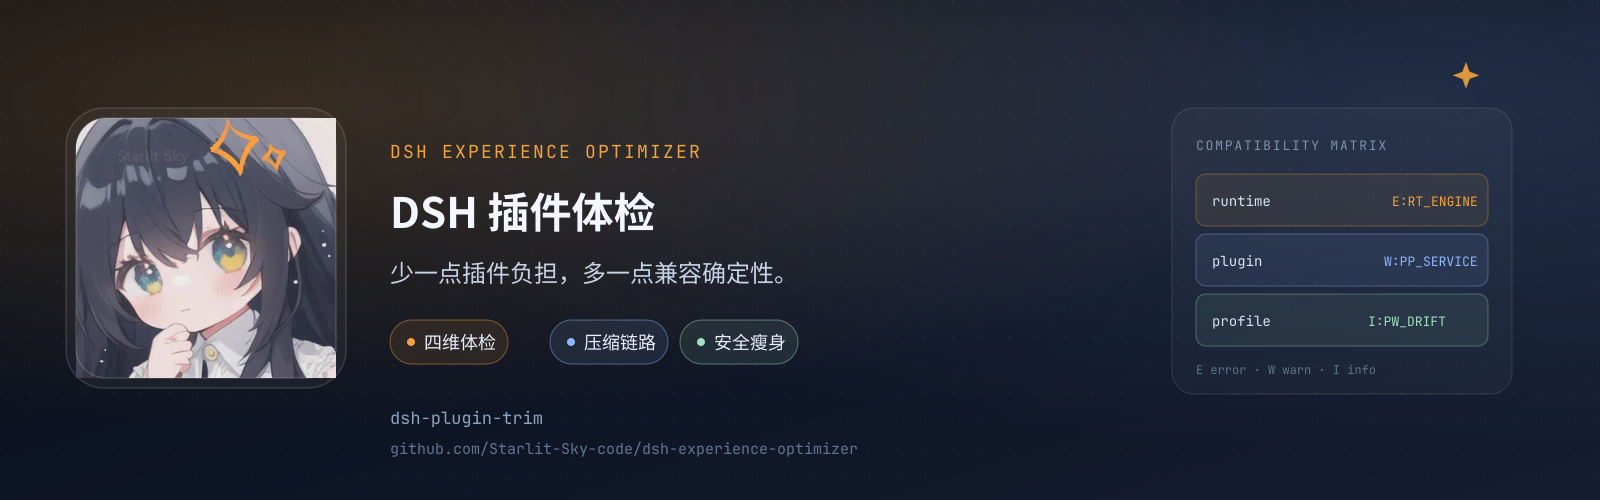
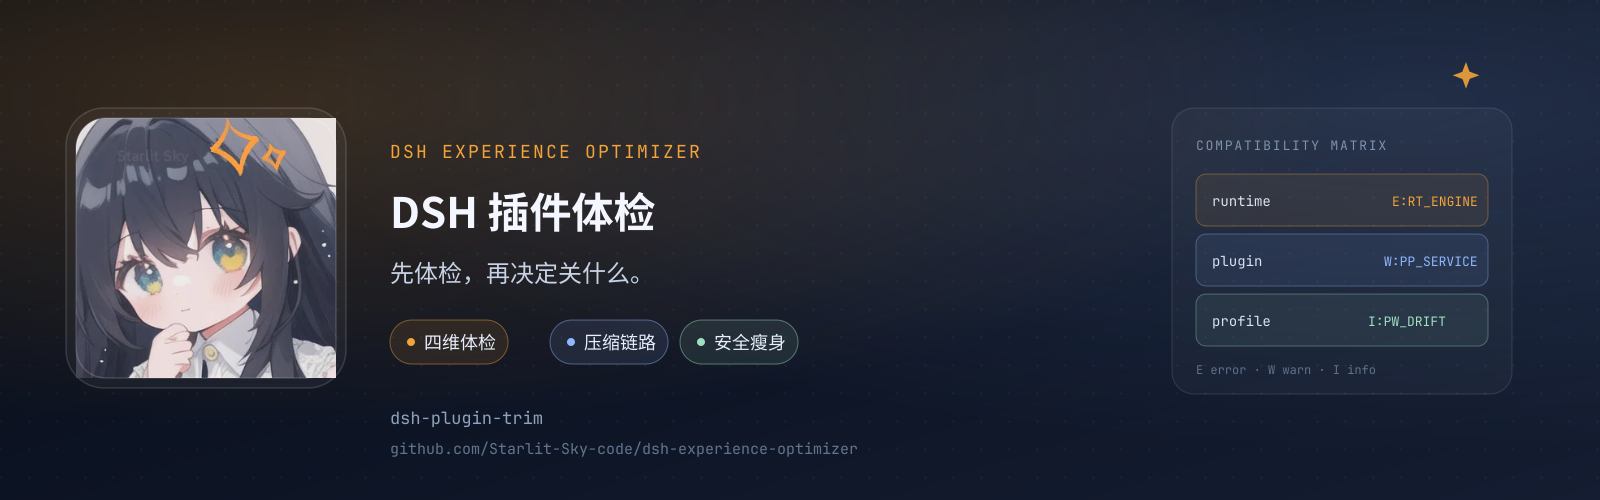
feat: one-click draft and English report localization

Changed region(s): [[0.25, 0.51, 0.5, 0.57]]

diff --git a/packages/plugin-trim/client.js b/packages/plugin-trim/client.js
@@ -1245,7 +1245,7 @@ window.__ModuleLoader__.load({
         h('path', { d: 'M1002 151 L1008 157 L1019 144', fill: 'none', stroke: '#fbbf24', strokeWidth: 2, strokeLinecap: 'round', strokeLinejoin: 'round' }),
         h('text', { x: '64', y: '72', fill: '#5eead4', fontFamily: 'ui-monospace, monospace', fontSize: '13', letterSpacing: '2.4' }, 'DSH PLUGIN SUITE · AGPL-3.0'),
         h('text', { x: '62', y: '142', fill: '#f2f7ff', fontFamily: 'Noto Sans SC, sans-serif', fontSize: '44', fontWeight: '700' }, tr('DSH 插件体检', 'DSH Plugin Checkup')),
-        h('text', { x: '64', y: '184', fill: '#c3d3e8', fontFamily: 'Noto Sans SC, sans-serif', fontSize: '20' }, tr('少一点插件负担，多一点兼容确定性。', 'Less plugin overhead, more compatibility certainty.')),
+        h('text', { x: '64', y: '184', fill: '#c3d3e8', fontFamily: 'Noto Sans SC, sans-serif', fontSize: '20' }, tr('先体检，再决定关什么。', 'Measure first. Then decide what to close.')),
         h('g', { transform: 'translate(64 220)' },
           [tr('插件体检', 'Plugin checkup'), tr('兼容性', 'Compatibility'), tr('安全瘦身', 'Safe trimming')].map((label, i) =>
             h('g', { key: label, transform: `translate(${i * 150} 0)` },
@@ -1425,64 +1425,97 @@ window.__ModuleLoader__.load({
       const copyCheckupReport = useCallback(async () => {
         if (!overview) return
         const verdict = overview.verdict
+        const checkNames = {
+          load: tr('加载', 'Load'),
+          compat: tr('兼容', 'Compat'),
+          context: tr('上下文', 'Context'),
+          compaction: tr('压缩链路', 'Compaction'),
+        }
+        const roleNames = {
+          backend: tr('后端', 'backend'),
+          pruner: tr('裁剪', 'pruner'),
+          image: tr('图像', 'image'),
+          command: tr('命令', 'command'),
+          threshold: tr('阈值', 'threshold'),
+          archive: tr('归档', 'archive'),
+          participant: tr('参与', 'participant'),
+        }
+        const headline = verdict
+          ? verdict.overall === 'ok'
+            ? tr('通过', 'Pass')
+            : verdict.overall === 'risk'
+              ? tr('有阻断项', 'Blocking issues')
+              : tr('需处理', 'Attention')
+          : '—'
         const lines = [
-          '# DSH 插件体检',
+          tr('# DSH 插件体检', '# DSH Plugin Checkup'),
           '',
-          '- 版本: ' + (overview.version || '0.5.2'),
+          tr('- 版本: ', '- Version: ') + (overview.version || '0.5.5'),
           '- Profile: ' + (overview.profile && overview.profile.name ? overview.profile.name : 'unknown'),
-          '- 结论: ' + (verdict ? verdict.headline : '—'),
+          tr('- 结论: ', '- Verdict: ') + headline,
           '',
-          '## 检查',
+          tr('## 检查', '## Checks'),
         ]
         if (verdict && Array.isArray(verdict.checks)) {
           for (const check of verdict.checks) {
-            lines.push('- ' + check.label + ': ' + check.status + ' · ' + check.detail)
+            const detail = CURRENT_LOCALE === 'en'
+              ? check.id === 'load'
+                ? (check.count > 0 ? check.count + ' load/runtime issues' : 'plugin rows loaded')
+                : check.id === 'compat'
+                  ? (check.count > 0 ? check.count + ' findings' : 'no conflicts')
+                  : check.id === 'context'
+                    ? (check.status === 'warn' ? check.count + ' duplicate prompt groups' : formatNumber(overview.context.totalTokens) + ' tokens')
+                    : check.id === 'compaction'
+                      ? (overview.compaction ? (overview.compaction.backendCount || 0) + ' backends · ' + overview.compaction.health : 'not detected')
+                      : check.detail
+              : check.detail
+            lines.push('- ' + (checkNames[check.id] || check.label) + ': ' + check.status + ' · ' + detail)
           }
         }
-        lines.push('', '## 上下文')
-        lines.push('- 总 token: ' + formatNumber(overview.context.totalTokens))
-        lines.push('- 未归属: ' + formatNumber(overview.context.unattributedTokens))
+        lines.push('', tr('## 上下文', '## Context'))
+        lines.push(tr('- 总 token: ', '- Total tokens: ') + formatNumber(overview.context.totalTokens))
+        lines.push(tr('- 未归属: ', '- Unattributed: ') + formatNumber(overview.context.unattributedTokens))
         if (Array.isArray(overview.context.byOwner)) {
           for (const owner of overview.context.byOwner.slice(0, 5)) {
             lines.push('- ' + owner.owner + ': ' + formatNumber(owner.tokens))
           }
         }
         if (overview.compaction) {
-          lines.push('', '## 压缩链路')
-          lines.push('- 状态: ' + overview.compaction.health + ' · 后端 ' + (overview.compaction.backendCount || 0))
+          lines.push('', tr('## 压缩链路', '## Compaction stack'))
+          lines.push(tr('- 状态: ', '- Status: ') + overview.compaction.health + ' · ' + tr('后端 ', 'backends ') + (overview.compaction.backendCount || 0))
           for (const participant of (overview.compaction.participants || []).slice(0, 8)) {
-            lines.push('- ' + participant.moduleName + ': ' + participant.role + (participant.enabled ? ' (on)' : ' (off)'))
+            lines.push('- ' + participant.moduleName + ': ' + (roleNames[participant.role] || participant.role) + (participant.enabled ? ' (on)' : ' (off)'))
           }
         }
         if (overview.capability) {
-          lines.push('', '## 能力面（静态，不是安全审计）')
+          lines.push('', tr('## 能力面（静态，不是安全审计）', '## Capability surface (static, not a security audit)'))
           for (const group of overview.capability.groups || []) {
             lines.push('- ' + group.label + ': ' + (group.count || 0))
           }
         }
         if (overview.findings && overview.findings.length > 0) {
-          lines.push('', '## 兼容性发现')
+          lines.push('', tr('## 兼容性发现', '## Compatibility findings'))
           for (const finding of overview.findings.slice(0, 12)) {
             lines.push('- [' + finding.severity + '] ' + finding.code + ': ' + finding.title)
           }
         }
         if (overview.history && overview.history.diff) {
           const diff = overview.history.diff
-          lines.push('', '## 自上次体检')
-          lines.push('- 新增插件: ' + (diff.addedBundles.length || 0))
-          lines.push('- 移除插件: ' + (diff.removedBundles.length || 0))
-          lines.push('- 可归属 token 差值: ' + diff.attributedDelta)
+          lines.push('', tr('## 自上次体检', '## Since last checkup'))
+          lines.push(tr('- 新增插件: ', '- Added plugins: ') + (diff.addedBundles.length || 0))
+          lines.push(tr('- 移除插件: ', '- Removed plugins: ') + (diff.removedBundles.length || 0))
+          lines.push(tr('- 可归属 token 差值: ', '- Attributable token delta: ') + diff.attributedDelta)
         }
         if (overview.verification && overview.verification.last) {
           const last = overview.verification.last
-          lines.push('', '## 上次实测')
-          lines.push('- token 差值: ' + last.deltaTokens)
+          lines.push('', tr('## 上次实测', '## Last measured'))
+          lines.push(tr('- token 差值: ', '- Token delta: ') + last.deltaTokens)
           if (last.deltaPercent !== null && last.deltaPercent !== undefined) {
-            lines.push('- 百分比: ' + Number(last.deltaPercent).toFixed(1) + '%')
+            lines.push(tr('- 百分比: ', '- Percent: ') + Number(last.deltaPercent).toFixed(1) + '%')
           }
-          if (last.confounded) lines.push('- 注意: 期间有其他插件变化，差值仅供参考')
+          if (last.confounded) lines.push(tr('- 注意: 期间有其他插件变化，差值仅供参考', '- Note: other plugins changed in the same window; treat the delta as indicative'))
         }
-        lines.push('', '> 只读体检；未修改任何插件。')
+        lines.push('', tr('> 只读体检；未修改任何插件。', '> Read-only checkup; no plugin was changed.'))
         try {
           await navigator.clipboard.writeText(lines.join('\n'))
           notify(tr('体检报告已复制', 'Checkup report copied'))
@@ -2354,7 +2387,7 @@ window.__ModuleLoader__.load({
                 'div',
                 { className: 'eo-about-card' },
                 h('div', { className: 'eo-inline', style: { marginBottom: '8px' } }, h(Icon, { name: 'shield', size: 24 }), h('strong', null, 'DSH Plugin Checkup')),
-                h('p', null, tr('少一点插件负担，多一点兼容确定性。', 'Less plugin overhead, more compatibility certainty.')),
+                h('p', null, tr('先体检，再决定关什么。', 'Measure first. Then decide what to close.')),
                 h('p', null, tr('版本：', 'Version: ') + '0.5.5 · AGPL-3.0-only'),
                 h('p', null, tr('作者：Starlit Sky', 'Author: Starlit Sky')),
               ),
@@ -2441,13 +2474,21 @@ window.__ModuleLoader__.load({
         }
         const checkDetail = (check) => {
           if (check.id === 'load') {
-            return check.count > 0 ? tr(check.count + ' 个加载/运行时问题', check.count + ' load/runtime issues') : check.detail
+            return check.count > 0 ? tr(check.count + ' 个加载/运行时问题', check.count + ' load/runtime issues') : tr('插件行已加载', 'Plugin rows loaded')
           }
           if (check.id === 'compat') {
-            return check.count > 0 ? tr(check.count + ' 项发现', check.count + ' findings') : check.detail
+            return check.count > 0 ? tr(check.count + ' 项发现', check.count + ' findings') : tr('未发现冲突', 'No conflicts')
           }
-          if (check.id === 'context' && check.status === 'warn') {
-            return tr(check.detail, check.count + ' duplicate prompt groups')
+          if (check.id === 'context') {
+            return check.status === 'warn'
+              ? tr(check.count + ' 组重复提示词', check.count + ' duplicate prompt groups')
+              : (overview.context.totalTokens > 0 ? formatNumber(overview.context.totalTokens) + ' tokens' : tr('暂无可归属上下文', 'No attributable context'))
+          }
+          if (check.id === 'compaction') {
+            const stack = overview.compaction
+            return stack && stack.health !== 'absent'
+              ? (stack.backendCount || 0) + tr(' 个后端', ' backends')
+              : tr('未检测到压缩链路', 'No compaction stack detected')
           }
           return check.detail
         }
@@ -2497,7 +2538,15 @@ window.__ModuleLoader__.load({
                 {
                   key: action.id + ':' + action.target,
                   variant: 'ghost',
-                  onClick: () => scrollToSection(action.target),
+                  disabled: action.target === 'draft' && draftBusy,
+                  onClick: () => {
+                    if (action.target === 'draft') {
+                      void generateDraft()
+                      scrollToSection('draft')
+                    } else {
+                      scrollToSection(action.target)
+                    }
+                  },
                 },
                 actionLabel(action),
               ),

diff --git a/packages/plugin-trim/test/client.test.ts b/packages/plugin-trim/test/client.test.ts
@@ -292,6 +292,14 @@ describe('client onboarding and pages', () => {
     expect(container.textContent).toContain('Plugin checkup')
     expect(container.textContent).toContain('Guide')
 
+    const trimEn = [...container.querySelectorAll('button')].find((button) => button.textContent?.trim() === 'Plugin checkup')
+    expect(trimEn).toBeDefined()
+    await act(async () => { trimEn?.click(); await sleep(40) })
+    const copyReportEn = [...container.querySelectorAll('button')].find((button) => button.textContent?.trim() === 'Copy report')
+    expect(copyReportEn).toBeDefined()
+    await act(async () => { copyReportEn?.click(); await sleep(30) })
+    expect(clipboardWrite.mock.calls.some(([text]) => String(text).startsWith('# DSH Plugin Checkup') && String(text).includes('## Checks'))).toBe(true)
+
     await act(async () => { root.unmount() })
     const Bubble = slotComponents['conversation.composer.dock']
     const Reasoning = slotComponents['conversation.chat.reasoning.body']
@@ -374,6 +382,23 @@ describe('client onboarding and pages', () => {
     await act(async () => { toggle?.click(); await sleep(20) })
     const reopen = [...container.querySelectorAll('button')].find((button) => button.textContent?.trim() === '查看 8 步路径')
     expect(reopen).toBeDefined()
+  })
+
+  it('generates a draft directly from the verdict action', async () => {
+    const calls: string[] = []
+    vi.stubGlobal('fetch', vi.fn(async (url: string) => {
+      calls.push(String(url))
+      return {
+        ok: true,
+        status: 200,
+        statusText: 'OK',
+        json: async () => ({ ok: true, data: { profile: { id: 'draft-1', items: [] } } }),
+      }
+    }))
+    const generate = [...container.querySelectorAll('button')].find((button) => button.textContent?.trim() === '生成瘦身方案')
+    expect(generate).toBeDefined()
+    await act(async () => { generate?.click(); await sleep(80) })
+    expect(calls.some((url) => url.endsWith('/suggest'))).toBe(true)
   })
 
   it('warns in the composer when the checkup verdict needs attention', async () => {

diff --git a/docs/ui.md b/docs/ui.md
@@ -80,7 +80,7 @@ section id 为 `experience-optimizer`，图标是 16px 的三段滑杆 SVG。
 ### 体检结论
 
 - 顶部四维结论条：加载 / 兼容 / 上下文 / 压缩链路；状态灯 + 计数 + 待办按钮。
-- 不做 0–100 健康分；按钮滚动到对应卡片，不自动执行。
+- 不做 0–100 健康分；兼容/压缩按钮滚动到对应卡片；“生成瘦身方案”直接生成草稿。
 - 对话上方只在结论需要处理时提醒（例如压缩链路双后端）；无事时回退到一次性轻提醒。
 
 ### 压缩链路
@@ -93,7 +93,7 @@ section id 为 `experience-optimizer`，图标是 16px 的三段滑杆 SVG。
 ### 类别与报告
 
 - 上下文卡按核心 / 界面 / 上下文记忆 / 工具 / 工作流 / 集成 / 其他汇总 token 与占比。
-- 结论条提供「复制报告」：Markdown 包含结论、上下文、压缩链路、能力面、兼容发现、历史与实测收益。
+- 结论条提供「复制报告」：Markdown 包含结论、上下文、压缩链路、能力面、兼容发现、历史与实测收益，并跟随当前 UI 语言。
 - 上下文卡底部显示宿主 RSS / uptime，标注为进程级，不归因到单个插件。
 
 ### 自上次体检

diff --git a/README.md b/README.md
@@ -103,7 +103,7 @@ DSH 插件装得越多，越容易出现三类问题：
 - **上下文**：可归属 token（字符估算）、Top 1 owner、重复提示词；未归属可展开到具体 section/tool，避免一个 97% 的黑箱。
 - **压缩链路**：只读识别压缩后端、工具结果裁剪、图像卸载、`/compact`、阈值控制面；发现双引擎、缺失后端、阈值冲突会直接告警，并把活跃后端加入保护名单，避免体检把唯一压缩后端建议关掉。
 
-对话上方只在结论需要处理时出提醒（例如“压缩链路：2 个后端同时启用”）；没事时不打扰。
+对话上方只在结论需要处理时出提醒（例如“压缩链路：2 个后端同时启用”）；没事时不打扰。结论条里的“生成瘦身方案”会直接生成草稿，不再多一步滚动。
 
 - **一键复制报告**：把结论、上下文、压缩链路、能力面、兼容发现和实测收益复制成 Markdown，方便贴 Issue 或发给同事。
 - **按类别看构成**：核心 / 界面 / 上下文记忆 / 工具 / 工作流 / 集成，直接看哪类最贵。

diff --git a/CHANGELOG.md b/CHANGELOG.md
@@ -5,6 +5,18 @@ All notable changes to this repository are documented here. Versions follow
 
 ## [Unreleased]
 
+### Changed
+
+- The verdict’s “Build slim plan” action now generates the draft directly
+  instead of only scrolling to the draft card.
+- The copied checkup report follows the current UI language; English reports no
+  longer contain Chinese headings.
+
+### Fixed
+
+- About page and generated promo banners use the current “先体检，再决定关什么”
+  positioning instead of the old tagline.
+
 ## [0.5.5] - 2026-11-22
 
 ### Added
